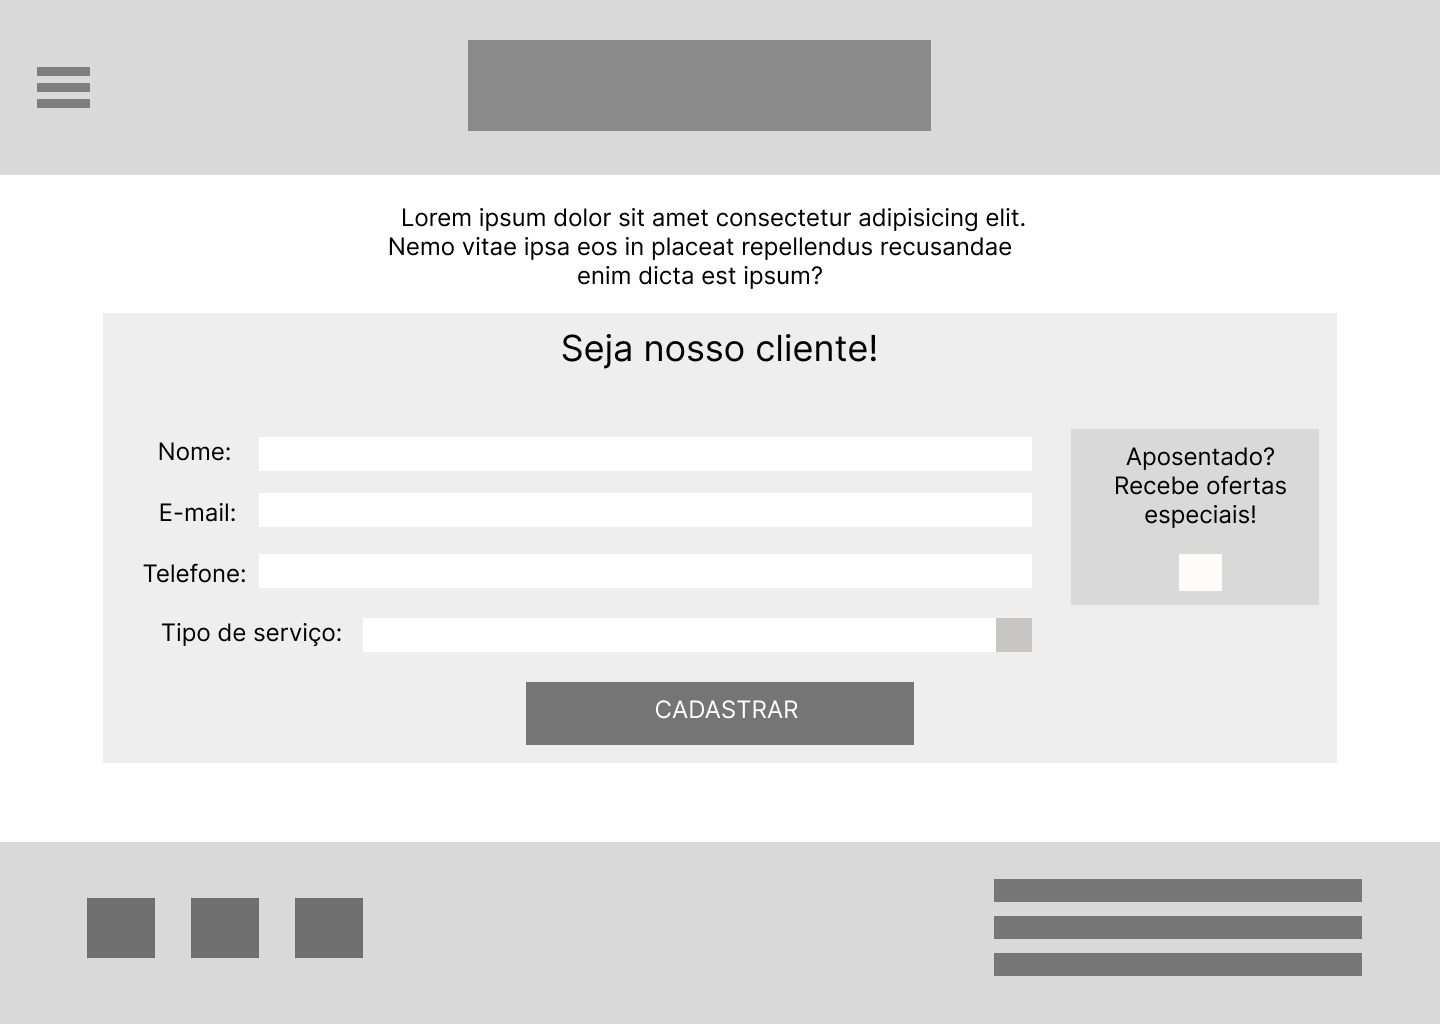
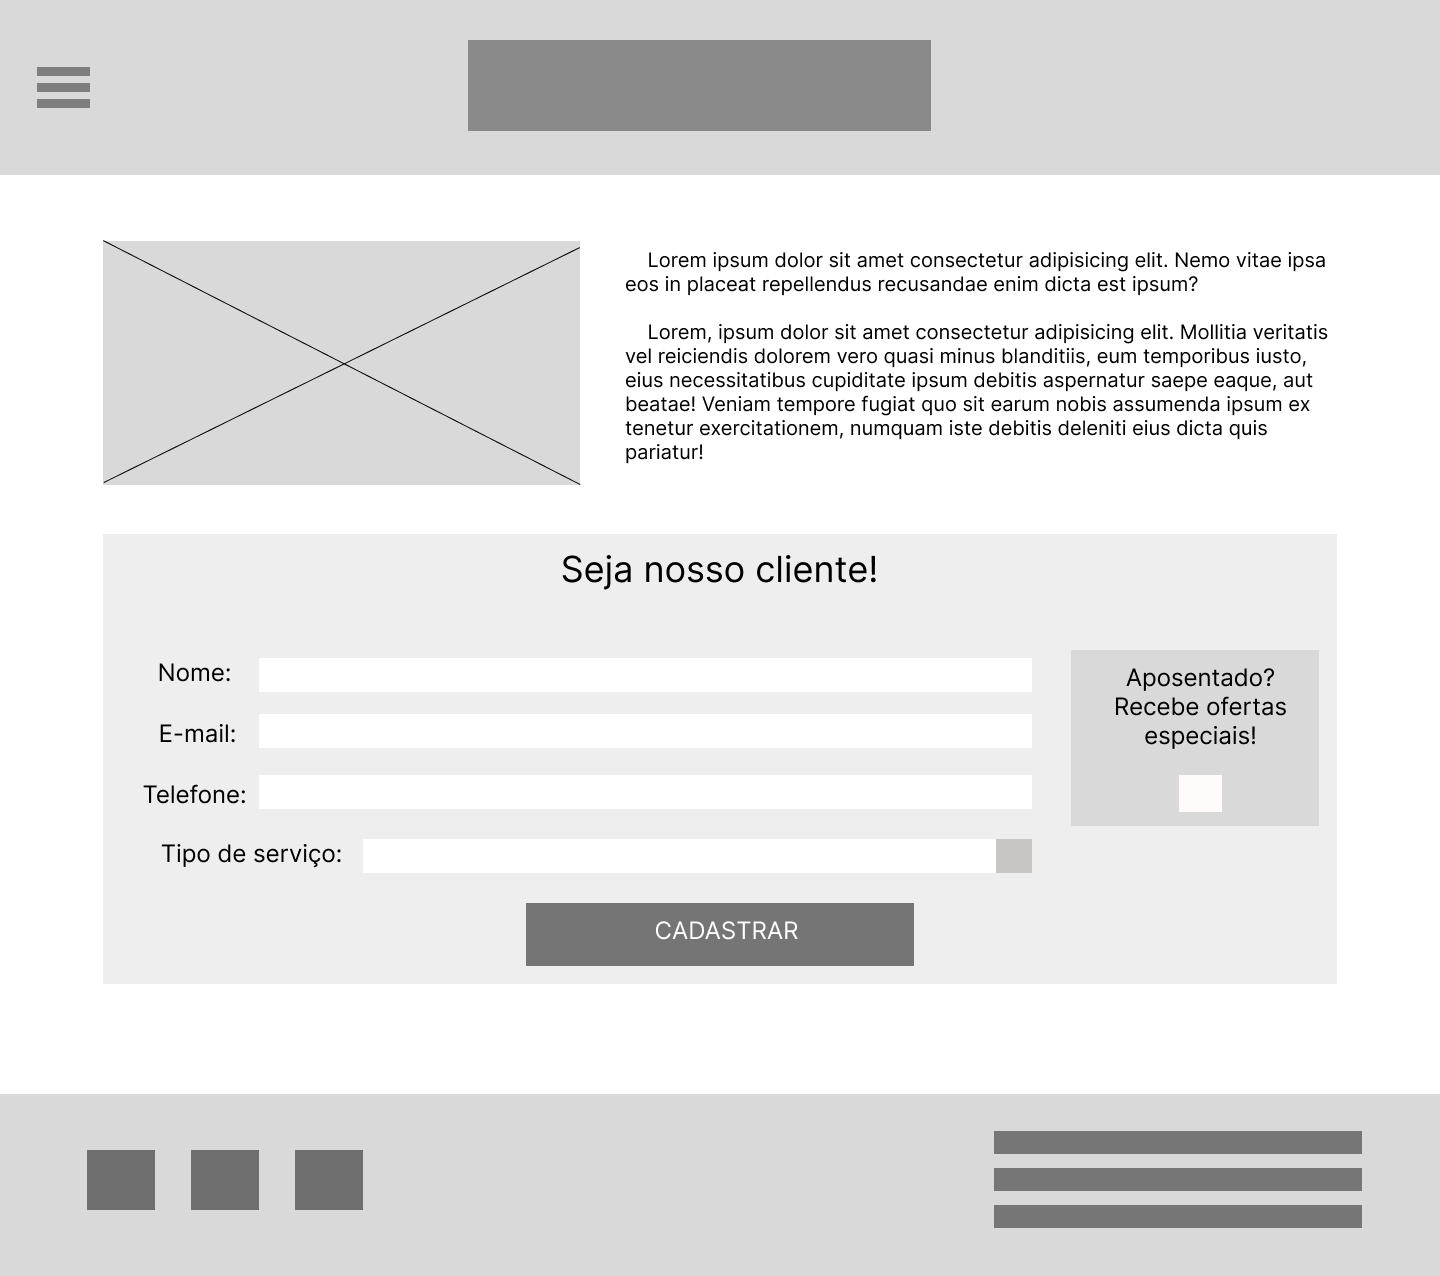
Finish registro page, wireframe updts and img updts

diff --git a/registro.html b/registro.html
@@ -38,12 +38,26 @@
 
     <!-- Main -->
     <section class="register_hero hero w80">
-        <p class="main_description" style="text-align: center; font-size: 1.1rem;">
-            Lorem, ipsum dolor sit amet consectetur adipisicing elit.<br> Eius veritatis, rerum iusto error maiores
-            corrupti
-            possimus saepe est, ut, necessitatibus sequi nisi reiciendis?<br>Esse voluptatem aliquid, est placeat soluta
-            obcaecati?
-        </p>
+        <div class="hero_content">
+            <div class="content_img">
+                <img src="./src/deal.jpg" alt="deal image">
+            </div>
+            <div class="content_text">
+                <h2>Lorem ipsum dolor sit amet.</h2>
+                <p>
+                    Lorem, ipsum dolor sit amet consectetur adipisicing elit.<br> Eius veritatis, rerum iusto error
+                    maiores corrupti possimus saepe est, ut, necessitatibus sequi nisi reiciendis?<br>Esse voluptatem
+                    aliquid, est placeat soluta obcaecati?
+                </p>
+                <p>
+                    Lorem, ipsum dolor sit amet consectetur adipisicing elit. Labore quibusdam quam, dolor ducimus
+                    debitis tenetur. Distinctio, fugiat enim? Vitae veniam, soluta aut dolor quisquam consequatur,
+                    dignissimos a dolorum eligendi repudiandae libero reprehenderit fuga natus aperiam blanditiis
+                    cupiditate necessitatibus eaque iste suscipit facilis? Dolorem ullam labore libero doloremque,
+                    magnam unde maiores.
+                </p>
+            </div>
+        </div>
 
         <div class="register_form_container">
             <h2 style="text-align: center;">Entre em contato!</h2>

diff --git a/index.html b/index.html
@@ -36,14 +36,14 @@
 
 	<!-- Main offer -->
 	<section id="main_offer_container">
-		<a href="./emprestimos.html"><img id="offer" src="./src/main_offer.png"></img></a>
+		<a href="./emprestimos.html"><img id="offer" src="./src/main_offer.jpg"></img></a>
 	</section>
 
 	<!-- Offers -->
 	<section id="offers">
 		<div class="offer_card">
 			<div class="card_img_container">
-				<img src="./src/offer.png">
+				<img src="./src/offer.jpg">
 			</div>
 			<p>Lorem ipsum dolor sit amet, eos utroque evertitur ne</p>
 			<a href="./emprestimos.html">
@@ -52,7 +52,7 @@
 		</div>
 		<div class="offer_card">
 			<div class="card_img_container">
-				<img src="./src/offer.png">
+				<img src="./src/offer.jpg">
 			</div>
 			<p>Lorem ipsum dolor sit amet consectetur adipisicing elit. Placeat, enim.</p>
 			<a href="./emprestimos.html">
@@ -61,7 +61,7 @@
 		</div>
 		<div class="offer_card">
 			<div class="card_img_container">
-				<img src="./src/offer.png">
+				<img src="./src/offer.jpg">
 			</div>
 			<p>Lorem ipsum dolor, sit amet consectetur adipisicing elit.</p>
 			<a href="./emprestimos.html">

diff --git a/styles.css b/styles.css
@@ -309,6 +309,24 @@ img {
 	/* height: 65vh; */
 }
 
+
+
+.hero_content{
+	display: flex;
+}
+
+.content_img {
+	width: 40%;
+}
+
+.content_text {
+	width: 55%;
+	display: grid;
+	gap: 1rem;
+	padding: 1rem;
+}
+
+
 .register_form_container{
 	margin-block: 2rem;
 	background-color: var(--secondary-color);

diff --git a/readme.md b/readme.md
@@ -1,19 +1,19 @@
 # Proposta 1
 Site para uma financeira local. A empresa oferece serviços de empréstimo, financiamentos e antecipação de recebidos aos seus clientes, além de outros serviços financeiros. O site deve observar as seguintes características:
  
-<!-- Make a link to the image home_page.png -->
-## [Página inicial](./Wireframes/home_page.png)
+<!-- Make a link to the image home_page.jpg -->
+## [Página inicial](./Wireframes/home_page.jpg)
 * Ela deve manter uma área de destaque para ofertas na parte superior da página.
 * Ela deve listar os três serviços principais oferecidos em caixas com imagem, um breve descritivo de cada um deles e links para página de detalhes.
 *  A página inicial deve ser disposta de maneira a despertar a atenção e o interesse do visitante da página.
  
-## [Página Empréstimos](./Wireframes/emprestimos.png)
+## [Página Empréstimos](./Wireframes/emprestimos.jpg)
 * Deve mostrar em caixas o nome e um breve descritivo para os tipos de empréstimo: pessoal, consignado.
 * Deve mostrar uma área de simulação de empréstimo, solicitando informações de tipo de empréstimo, valor desejado (com opções predefinidas de valores) e quantidade de meses para pagamento. Haverá, então, uma área para mostrar o valor da parcela calculado.
 * A simulação também deve ter um botão Seja nosso cliente, que direcionará o visitante a uma página na qual ele informará seus dados de contato.
 * A página deve conter uma pequena seção de Perguntas frequentes, em que o usuário clica na pergunta e expande-se uma área com a resposta.
  
-## [Página Seja nosso cliente](./Wireframes/Seja_nosso_cliente.png)
+## [Página Seja nosso cliente](./Wireframes/Seja_nosso_cliente.jpg)
 * Deve conter imagem e texto descritivo na parte superior.
 * Deve haver, na região principal, um formulário solicitando nome, e-mail, telefone. Deve ter um campo que permita a escolha do tipo de serviço desejado e uma caixa de seleção na qual o usuário informará se é aposentado ou não.
 * Deve conter, abaixo, um botão Cadastrar.
